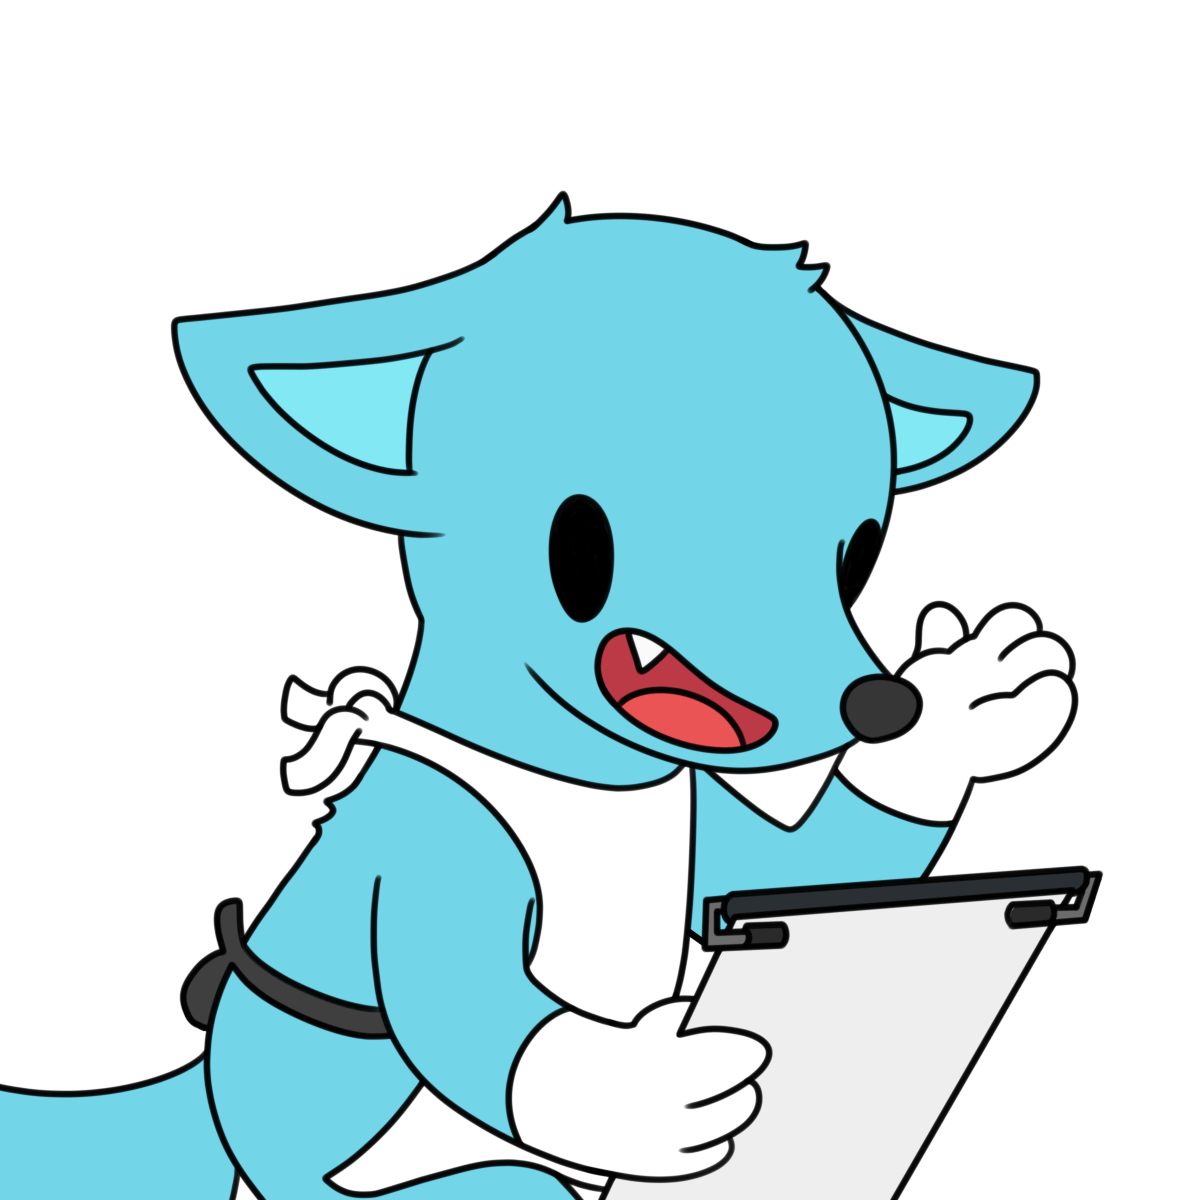
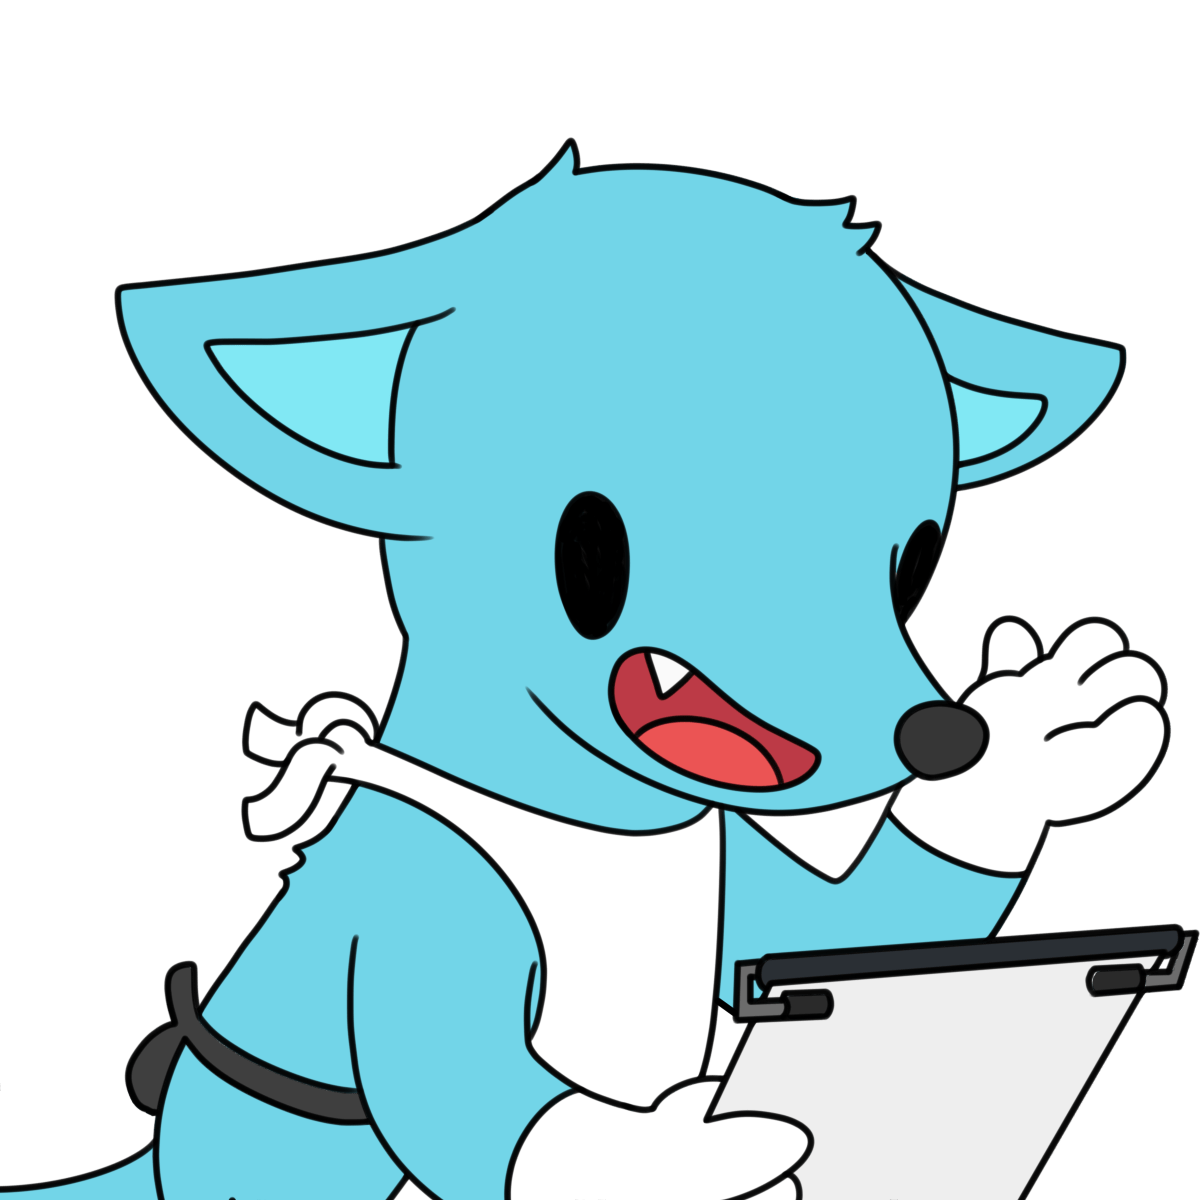
Style: 레시피독 이미지 업데이트

diff --git a/client/src/components/Message/index.tsx b/client/src/components/Message/index.tsx
@@ -1,8 +1,10 @@
 import React, { useEffect, useState } from 'react';
 import Image from 'next/image';
 import { useRouter } from 'next/router';
-import profileDefault from '/public/static/images/profile.png';
+import profileDefault from '/public/static/images/fortunedogprofile.png';
 import kcalProfile from '/public/static/images/kcaldogprofile.png';
+import recipeProfile from '/public/static/images/recipedogprofile.png';
+import { CHAT } from '@/consts/chatType';
 
 interface MessageProps {
   chatter: 'assistant' | 'user';
@@ -15,13 +17,15 @@ export const Message = React.forwardRef<HTMLLIElement, MessageProps>(
     const router = useRouter();
     const [profileImage, setProfileImage] = useState(profileDefault);
     useEffect(() => {
-      if (router.query.dog === 'kcal') {
+      if (router.query.dog === CHAT.KCAL) {
         setProfileImage(kcalProfile);
+      } else if (router.query.dog === CHAT.RECIPE) {
+        setProfileImage(recipeProfile);
       }
     }, []);
     return (
       <li className={chatter} ref={ref}>
-        {chatter === 'assistant' && (
+        {chatter === 'assistant' && router.query.dog && (
           <Image src={profileImage} width={40} height={40} alt="profile" priority />
         )}
         <p dangerouslySetInnerHTML={{ __html: message }}></p>

diff --git a/client/src/consts/chatDogInfo.ts b/client/src/consts/chatDogInfo.ts
@@ -1,6 +1,7 @@
 import { CHAT } from './chatType';
 import fortuneImage from '/public/static/images/fortune.png';
 import kcalImage from '/public/static/images/kcaldog.png';
+import recipeImage from '/public/static/images/recipe.png';
 
 export const chatDogList = [
   {
@@ -48,7 +49,7 @@ export const chatDogList = [
     mainText: ['미슐랭 ⭐⭐⭐', '요리하는 강아지 레시피독'],
     keyword: '레시피독',
     button: '최고의 식사하러 가기',
-    imgPath: fortuneImage,
+    imgPath: recipeImage,
     tag: ['#레시피', '#음식', '#요리', '#오늘 뭐먹지?', '#요리노하우', '#강주부', '#요리연구가'],
     explain: [''],
     detailtext: [
@@ -57,7 +58,7 @@ export const chatDogList = [
       '당신의 주방도 이제 미슐랭 ⭐⭐⭐',
     ],
     color: {
-      point: '#2A2F4F',
+      point: '#335F8E',
       active: '#B72C3A',
     },
   },
